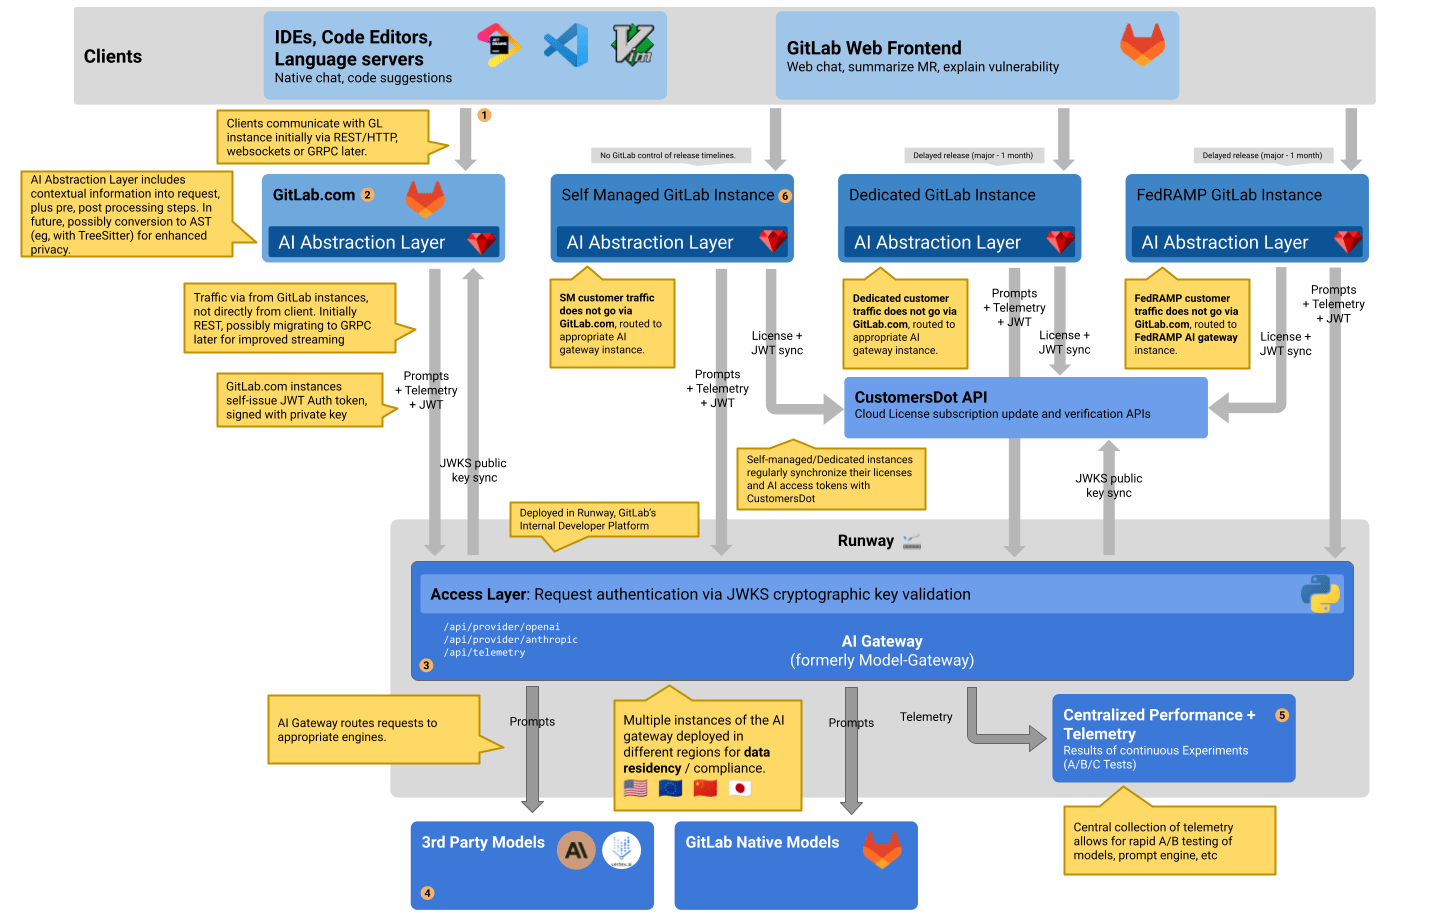
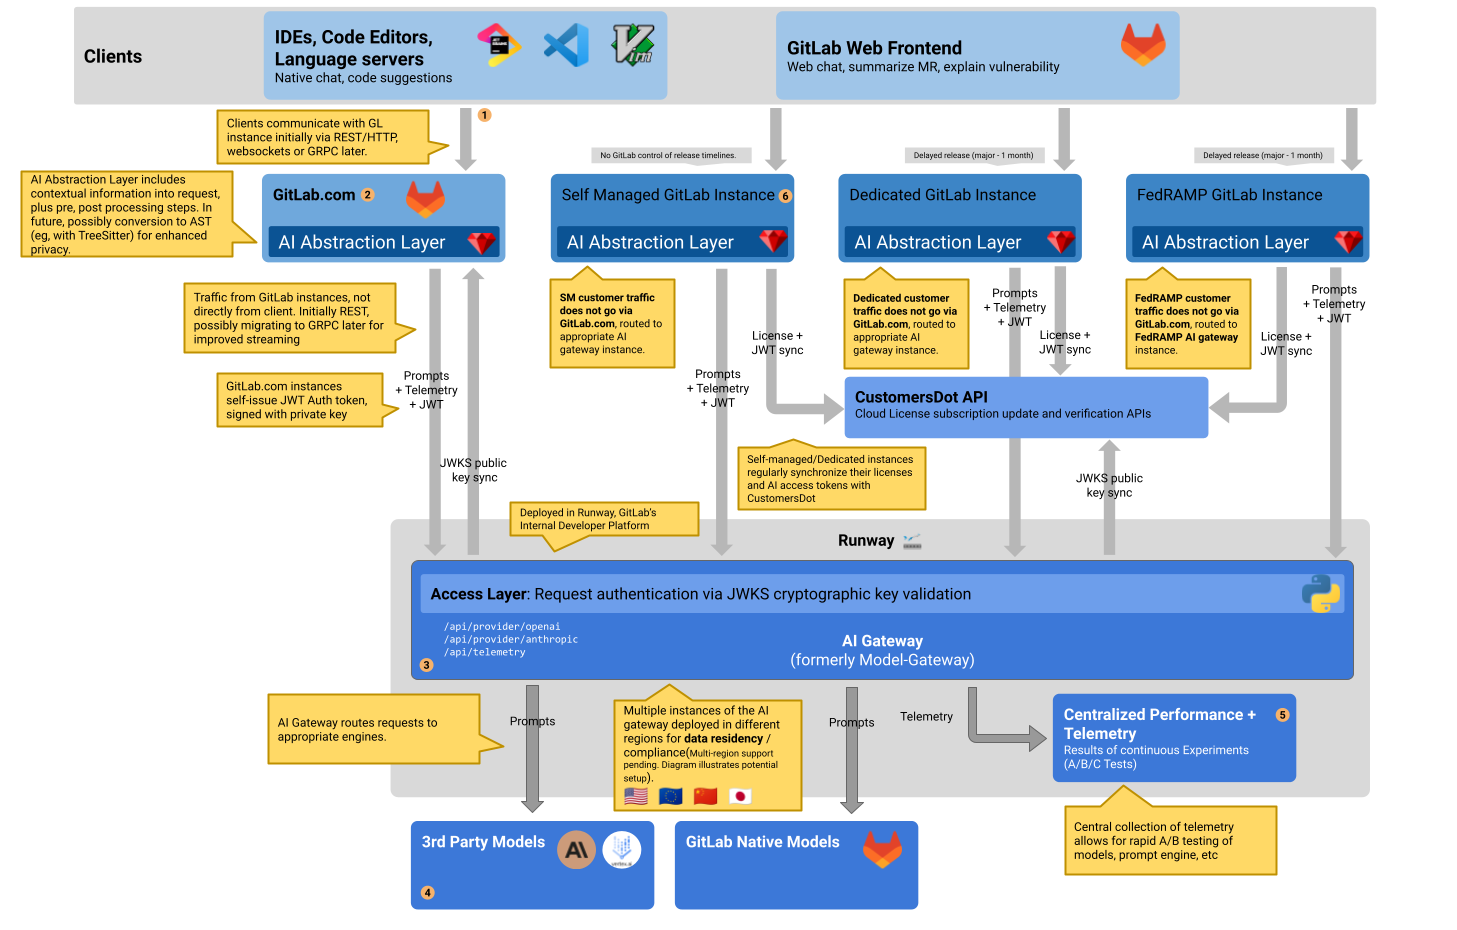
Update architecture diagram for multi-region support

Changed region(s): [[0.0, 0.0, 0.9832, 1.0], [0.0615, 0.0305, 0.0922, 0.0915]]

diff --git a/doc/architecture/blueprints/ai_gateway/index.md b/doc/architecture/blueprints/ai_gateway/index.md
@@ -32,6 +32,8 @@ translate the content of the redirected request where needed.
 
 ![architecture diagram](img/architecture.png)
 
+**Currently, multi-region deployment is not supported; it's a feature under consideration. The existing diagram illustrates a potential architecture for deploying across multiple regions.**
+
 [Diagram source](https://docs.google.com/drawings/d/1PYl5Q5oWHnQAuxM-Jcw0C3eYoGw8a9w8atFpoLhhEas/edit)
 
 By using a hosted service under the control of GitLab we can ensure
